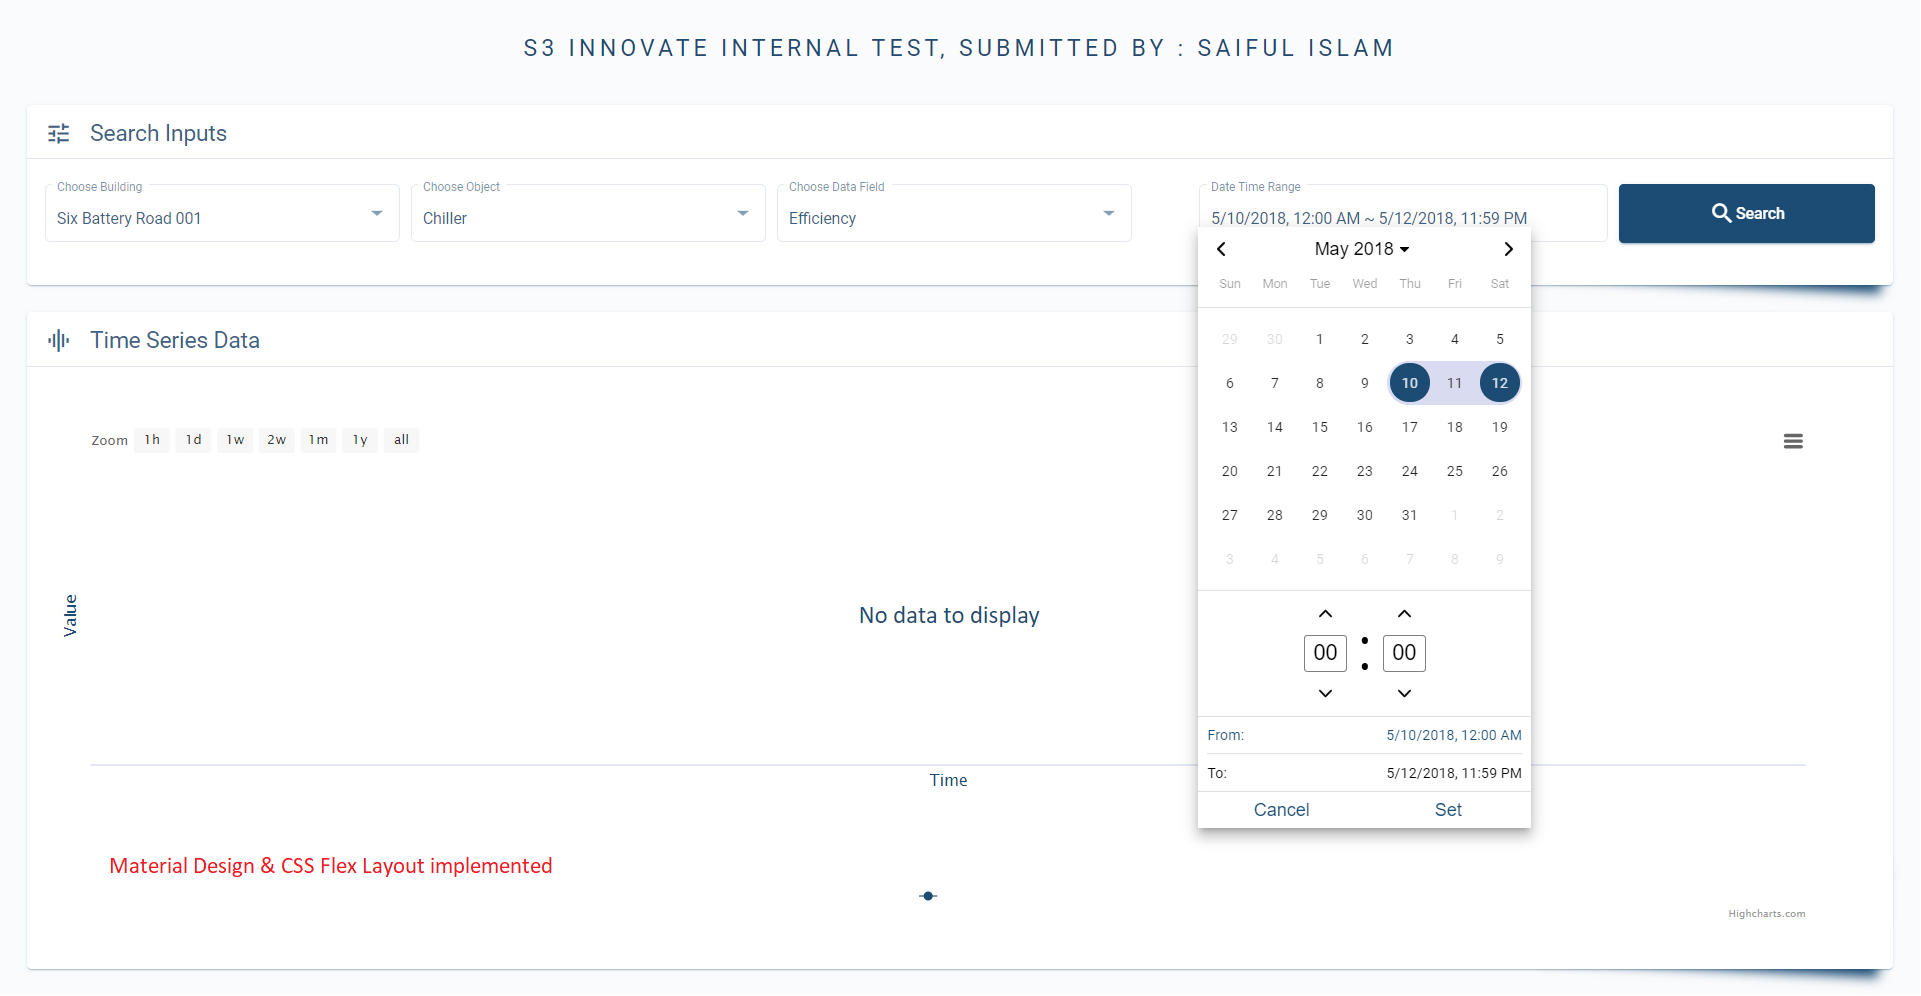
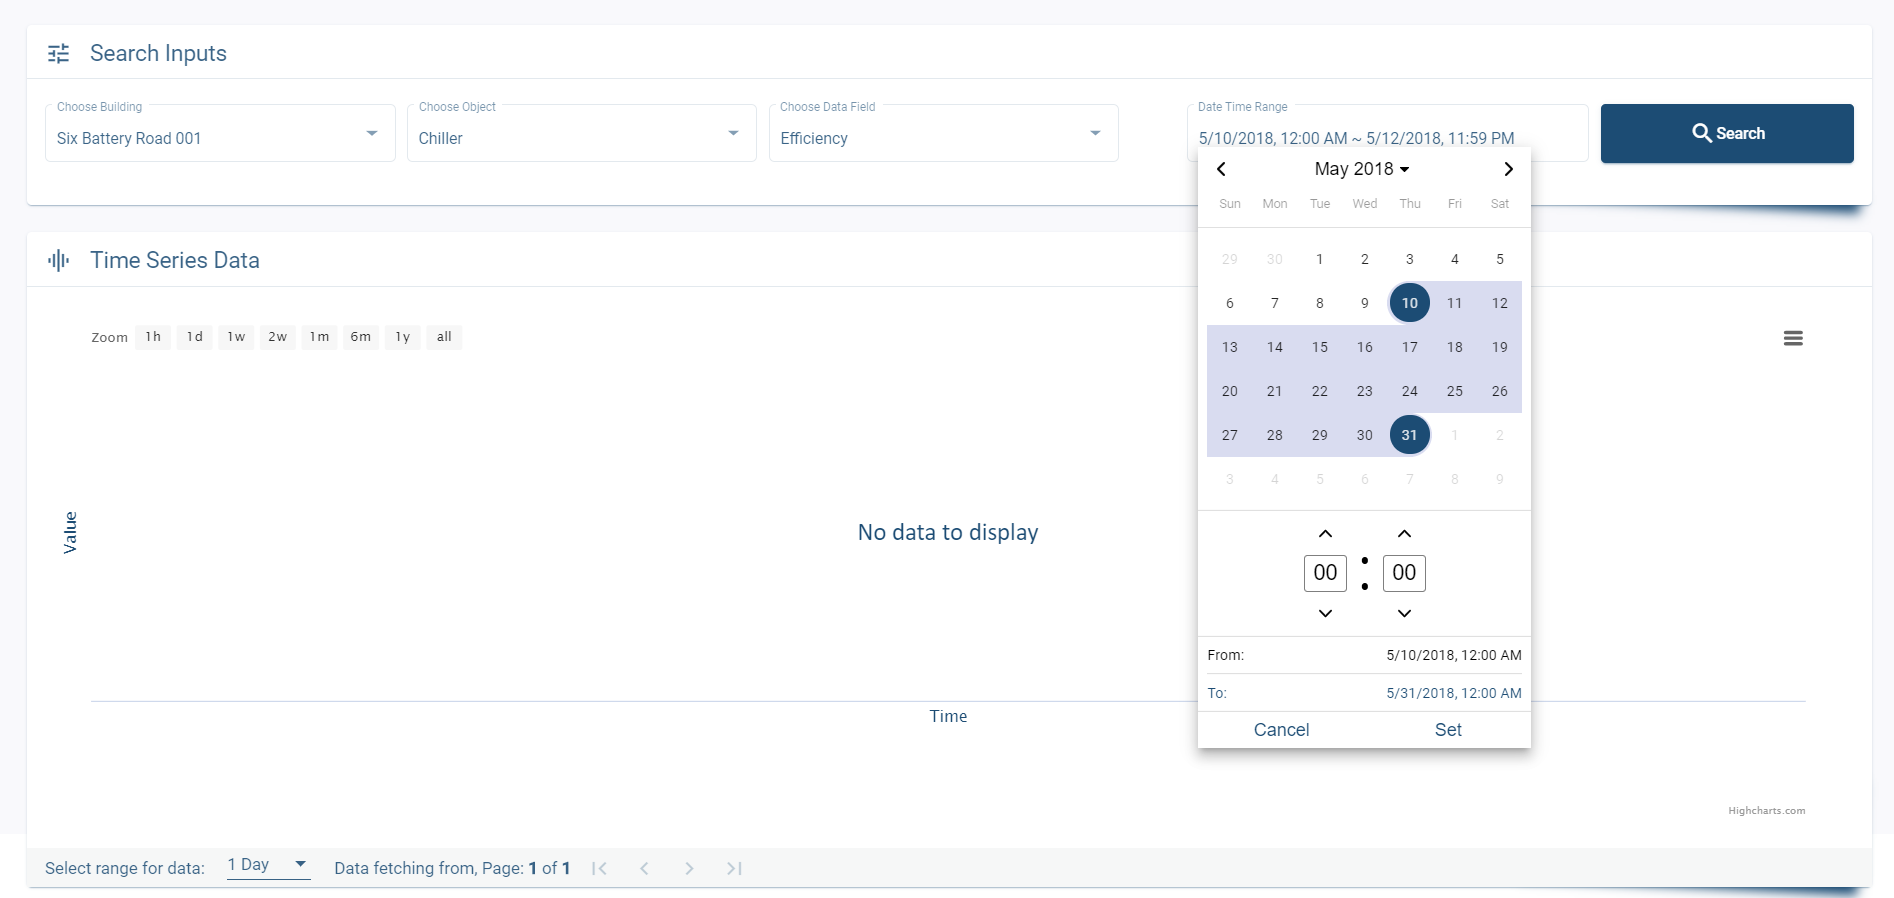
finalized for submission

diff --git a/src/app/package/charts/line-chart/line-chart.component.ts b/src/app/package/charts/line-chart/line-chart.component.ts
@@ -35,14 +35,12 @@ export class LineChartComponent implements OnInit, OnChanges {
   highcharts = Highcharts;
   selectedSize = '1';
   totalPage = 1;
-  // color: string[] = ['#1c4c74', '#800080', '#008000', '#FFBD33', '#75FF33', '#33FFBD', '#F45B5B', '#F7A35C', '#F45B5B', '#AA33FF', '#FF0000']
   color: string[] = ['#1c4c74', "#ff349a", '#0000ff', "#644c00", "#e66914", "#48ffff", "#008200", "#da00da", "#595959", "#5700ad", '#FF0000']
   baselineList = [
     { name: 'System Efficiency', value: 0.45, type: 'less' },
     { name: 'System Cooling Load', value: 400000, type: 'greater' },
   ]
   chartDateCount: number = 1;
-  //chartDateRange = [new Date(2018, 4, 10, 0, 0), new Date(2018, 4, 12, 23, 59)];
   counter = 1;
 
   constructor() { }
@@ -54,7 +52,6 @@ export class LineChartComponent implements OnInit, OnChanges {
   ngOnChanges() {
     if (this.readingData !== undefined) {
       this.spinnerClass = 'start'
-      //this.chartDateRange = this.readingData.chartDateRange;
       this.getChart(this.readingData);
       if (this.readingData.size < Number(this.selectedSize)) {
         this.pageSizeSelectionChange({ activePage: 1, size: 1 });
@@ -101,14 +98,6 @@ export class LineChartComponent implements OnInit, OnChanges {
           });
         }
       }
-      // else if (element.datapointName == 'System Cooling Load') {
-      //   zoneData.push({
-      //     value: 400000,
-      //     color: this.color[index]
-      //   }, {
-      //     color: this.color[this.color.length - 1]
-      //   });
-      // }
       this.readingSeries.push({
         name: element.datapointName,
         data: _.zip(element.timestamp, element.value),
@@ -186,6 +175,11 @@ export class LineChartComponent implements OnInit, OnChanges {
           text: '1m'
         },
         {
+          type: 'month',
+          count: 6,
+          text: '6m'
+        },
+        {
           type: 'year',
           count: 1,
           text: '1y'
@@ -224,16 +218,13 @@ export class LineChartComponent implements OnInit, OnChanges {
           }
         },
         events: {
-          afterSetExtremes: (e) => {
-            this.afterSetExtremes(e);
-          } 
-          //this.afterSetExtremes
-          // function (e) {
-          //   var chart = Highcharts.charts[0];
-          //   chart.showLoading('Loading data from server...');
-          //   chart.hideLoading();
+          afterSetExtremes: 
+          function (e) {
+            var chart = Highcharts.charts[0];
+            chart.showLoading('Loading data from server...');
+            chart.hideLoading();
 
-          // }
+          }
         },
       },
       yAxis: {
@@ -243,23 +234,17 @@ export class LineChartComponent implements OnInit, OnChanges {
             fontWeight: 'normal',
             fontSize: '14px',
             color: '#1c4c74'
+          },
+          labels:{
+            formatter: function () {
+              return Highcharts.numberFormat(this.value, 4, '.', ','); 
+          }
           }
         },
-        //   plotLines: [{
-        //     value: 400,
-        //     color: 'red',
-        //     dashStyle: 'solid',
-        //     width: 2
-        // }, {
-        //     value: 0.59,
-        //     color: 'red',
-        //     dashStyle: 'solid',
-        //     width: 2
-        // }]
       },
       tooltip: {
         formatter: function () {
-          return moment.utc(this.point.category).format('DD/MM/YY HH:mm') + " hrs<br/>" + this.series.name + " " + Highcharts.numberFormat(this.y, 2, '.', ',');
+          return moment.utc(this.point.category).format('DD/MM/YY HH:mm') + " hrs<br/>" + this.series.name + " " + Highcharts.numberFormat(this.y, 4, '.', ',');
         }
       },
       lang: {
@@ -296,23 +281,5 @@ export class LineChartComponent implements OnInit, OnChanges {
     setTimeout(() => {
       this.spinnerClass = 'end'
     }, 500);
-  }
-
-  afterSetExtremes(e) {
-    debugger
-    var chart = Highcharts.charts[0];
-    chart.showLoading('Loading data from server...');
-    let diff=(e.max - e.min);
-    let month=30 * 24 * 3600 * 1000;
-    if (e.trigger=='zoom' && diff>month) {
-      this.LazyLoadRequest.emit({ startDate: Math.round(e.min), endDate: Math.round(e.max) });
-      for (let index = 0; index < chart.series.length; index++) {
-        const element = this.readingData.data[index];
-        chart.series[0].setData(_.zip(element.timestamp, element.value));
-      }
-      chart.hideLoading();
-    }else{
-      chart.hideLoading();
-    }   
   }
 }

diff --git a/src/app/app-main/s3itest/s3itest-main.component.ts b/src/app/app-main/s3itest/s3itest-main.component.ts
@@ -24,19 +24,6 @@ export class S3itestMainComponent {
     const endTime = moment(data.daterange[1]).format("DD-MM-YYYYhh-mm-ss-A");
     this.api.getReadingData(data.buildingId, data.objectId == 0 ? null : data.objectId, data.datafieldId == 0 ? null : data.datafieldId, startTime.toString(), endTime.toString(), page, size).subscribe((res) => {
       this.readingData = res.data.readingQuery.readings;
-      // this.readingData = {
-      //   chartData: res.data.readingQuery.readings,
-      //   chartDateRange: data.daterange
-      // };
-    });
-  }
-
-  getReadingLazyData(searchData,startdate,enddate) {
-    let data = searchData;
-    const startTime = moment(startdate).format("DD-MM-YYYYhh-mm-ss-A");
-    const endTime = moment(enddate).format("DD-MM-YYYYhh-mm-ss-A");
-    this.api.getReadingLazyData(data.buildingId, data.objectId == 0 ? null : data.objectId, data.datafieldId == 0 ? null : data.datafieldId, startTime.toString(), endTime.toString()).subscribe((res) => {
-      this.readingData = res.data.readingQuery.readingsLazyData;
     });
   }
 
@@ -56,13 +43,6 @@ export class S3itestMainComponent {
     if (this.searchData !== undefined) {
       this.size = event.size;
       this.getReadingData(this.searchData, event.size, this.initPage);
-    }
-  }
-
-  onLazyLoadRequest(event){
-    debugger
-    if (this.searchData !== undefined) {
-      this.getReadingLazyData(this.searchData, event.startDate, event.endDate);
     }
   }
 }

diff --git a/src/app/app-pagination/pagination/pagination.component.ts b/src/app/app-pagination/pagination/pagination.component.ts
@@ -1,5 +1,4 @@
 import { Component, OnChanges, Input, Output, EventEmitter, OnInit } from '@angular/core';
-import * as moment from 'moment';
 import { FormControl } from '@angular/forms';
 
 @Component({
@@ -35,13 +34,13 @@ export class PaginationComponent implements OnChanges, OnInit {
   }
 
   populateSize() {
-    // var a = moment(this.chartDateRange[0]);
-    // var b = moment(this.chartDateRange[1]);
-    // let diff = b.diff(a, 'days');
      let diff = this.chartDateCount;
     this.sizes = [];
     if (diff >= 365) {
       this.sizes.push({ value: '365', viewValue: '1 Year' });
+    }
+    if (diff >= 180) {
+      this.sizes.push({ value: '180', viewValue: '6 Month' });
     }
     if (diff >= 30) {
       this.sizes.push({ value: '30', viewValue: '1 Month' });

diff --git a/src/app/service/api-service.service.ts b/src/app/service/api-service.service.ts
@@ -71,22 +71,4 @@ export class ApiServiceService {
       }`
     });
   }
-
-  getReadingLazyData(buildingId: number, objectId: number | null, datafieldId: number | null, startTime: string, endTime: string): Observable<ApolloQueryResult<Response>> {
-    return this.apollo.query({
-      query: gql`{
-        readingQuery {
-          readingsLazyData(buildingId: ${buildingId}, objectId: ${objectId}, datafieldId: ${datafieldId}, startTime: "${startTime}", endTime:  "${endTime}") { 
-              buildingName
-              datapointName
-              timestamp
-              value
-          }
-        }
-      }
-      `
-    });
-  }
-
-
 }

diff --git a/src/app/app-pagination/pagination/pagination.component.html b/src/app/app-pagination/pagination/pagination.component.html
@@ -1,5 +1,5 @@
-<mat-toolbar class="custom-toolbar" fxLayout="row" fxLayoutAlign="left center" fxFlex fxLayout.xs="column" fxLayout.md="row"
-  fxLayout.lt-md="column">
+<mat-toolbar class="custom-toolbar" fxLayout="row" fxLayoutAlign="left center" fxFlex fxLayout.xs="column"
+  fxLayout.md="row" fxLayout.lt-md="column">
   <mat-label class="range-label"> Select range for data: </mat-label>
   <mat-form-field>
     <mat-select [ngModel]="selectedPageSize" name="selectedSize" #selected

diff --git a/src/app/app-main/s3itest/s3itest-main.component.html b/src/app/app-main/s3itest/s3itest-main.component.html
@@ -1,2 +1,2 @@
 <app-search-form (clickRequest)="searchClick($event)"></app-search-form>
-<app-line-chart [readingData]="readingData" (pageChangeRequest)="onChartPageChange($event)" (sizeChangeRequest)="onChartPagesizeChangeRequest($event)" (LazyLoadRequest)="onLazyLoadRequest($event)"></app-line-chart>
+<app-line-chart [readingData]="readingData" (pageChangeRequest)="onChartPageChange($event)" (sizeChangeRequest)="onChartPagesizeChangeRequest($event)"></app-line-chart>
